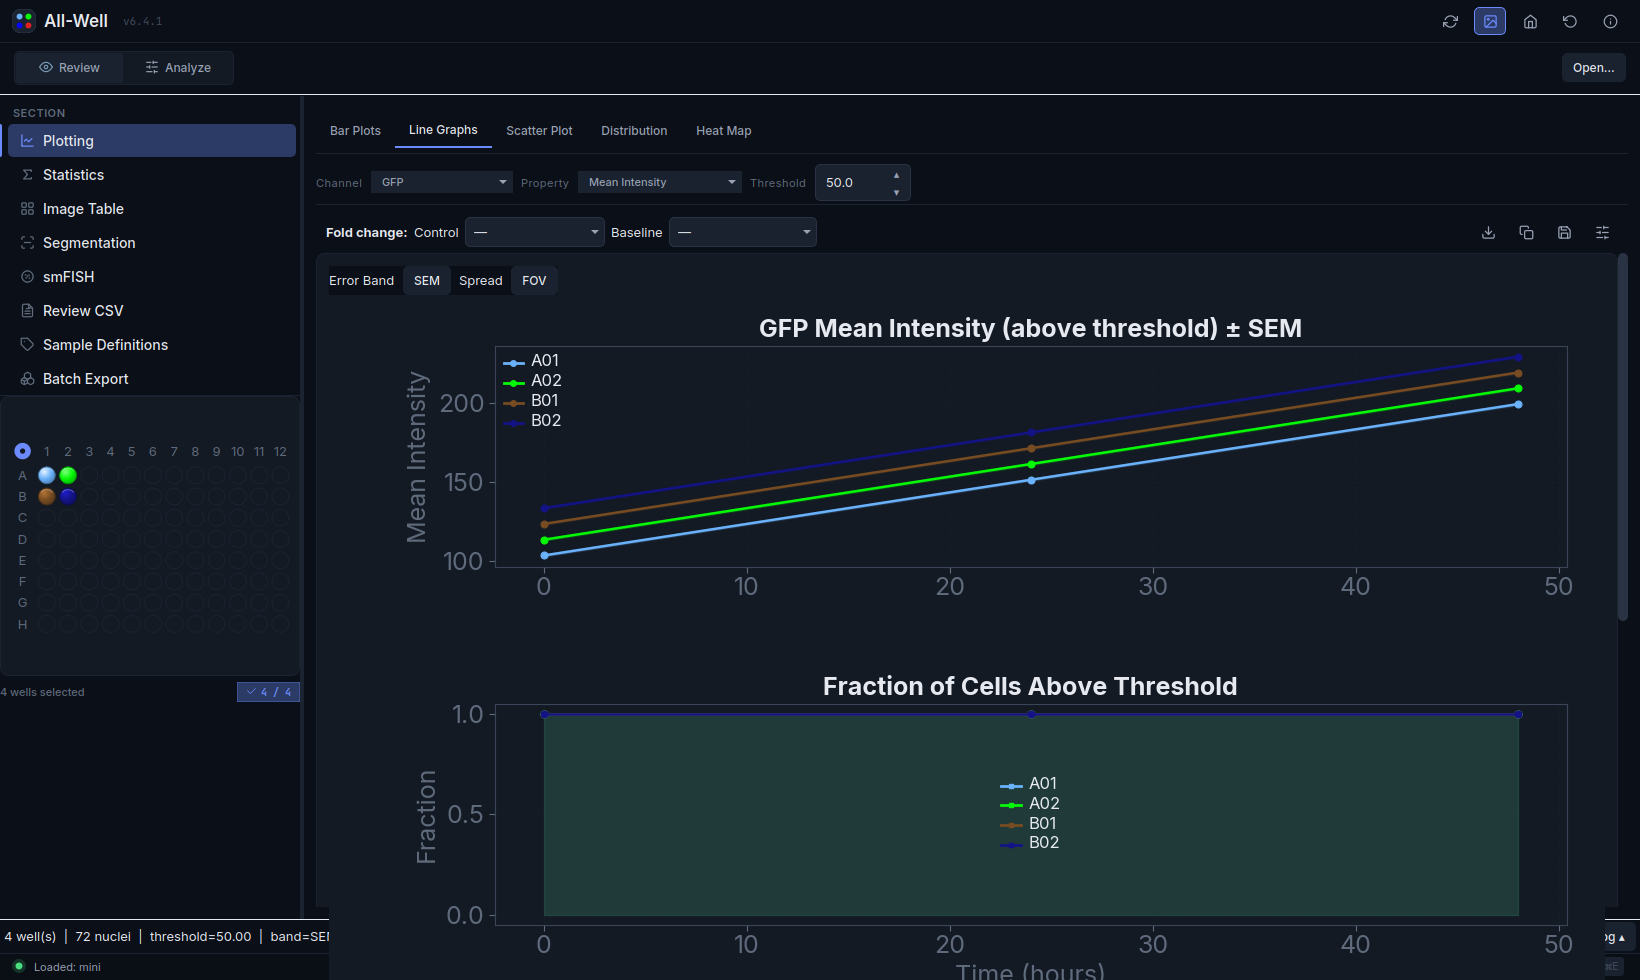
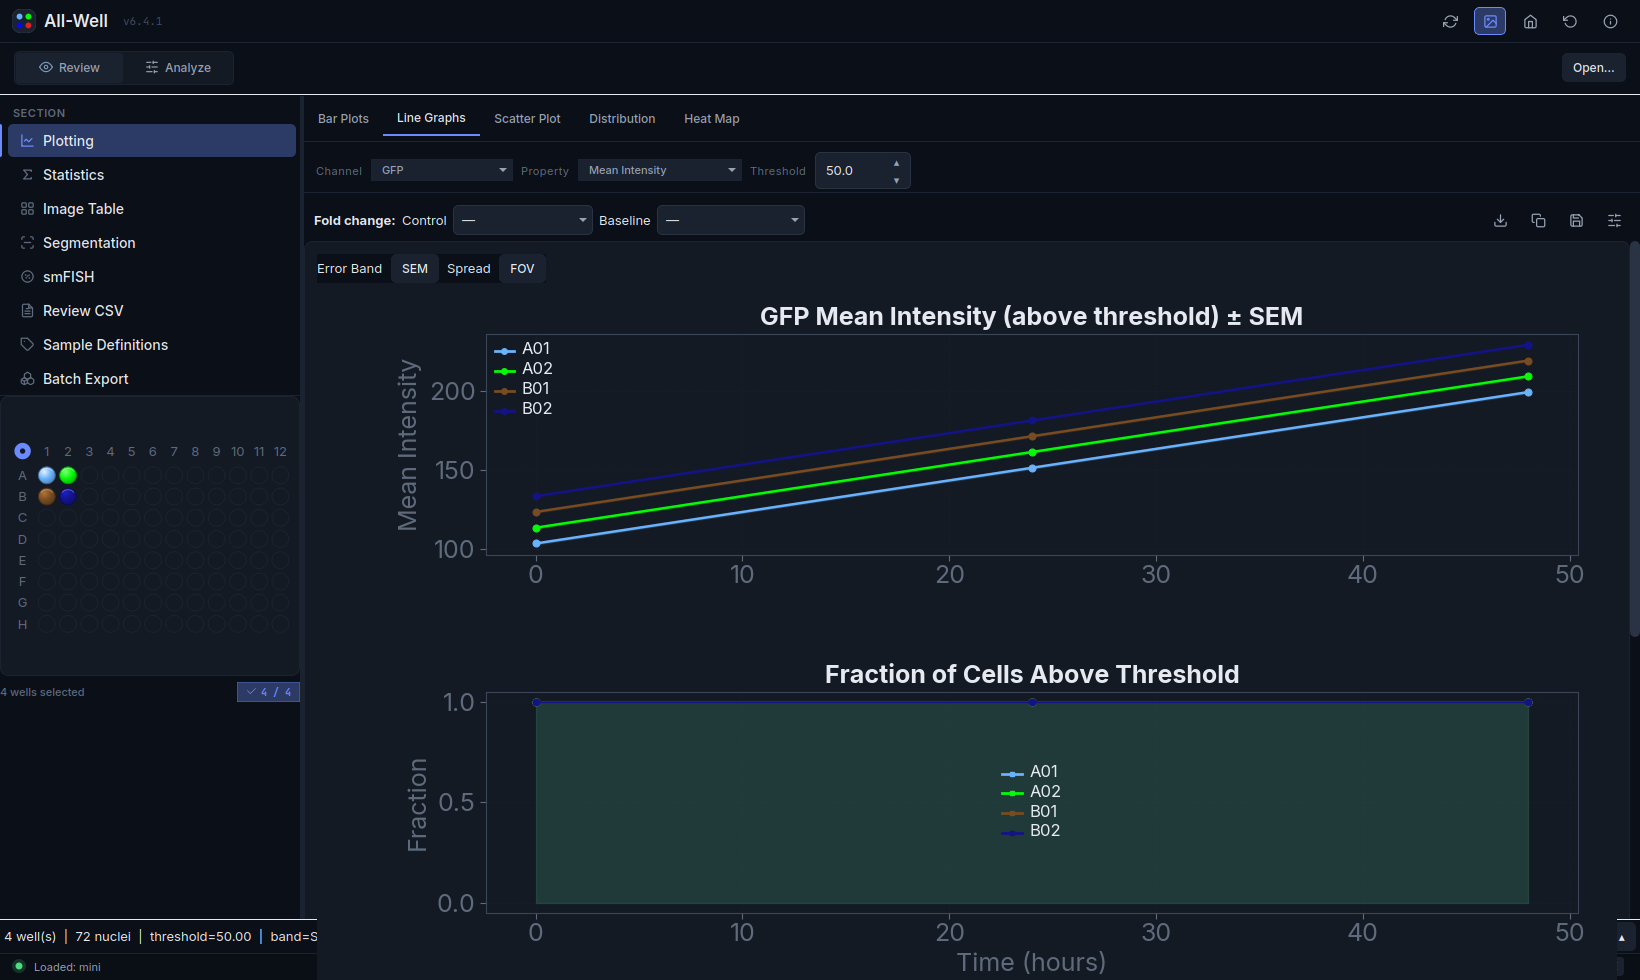
Plotting: align sub-tab bar + content to the shared 12px inset
The previous change inset the whole plotting_container 12px, which pushed the
sub-tab bar in by 12 on top of the QTabBar's own ~12px offset — so its tabs sat
at ~24px while every other tab's content was at 12px. Restore the container to
full-width (so the ctxbar/action-row bars span the pane like the Segmentation /
Sample-Definitions sub-tab bars) and inset the action-row content + plot frames
12px instead. Every Review tab's first element now lands on the same 12px line.

diff --git a/well_viewer/core/centre_view.py b/well_viewer/core/centre_view.py
@@ -149,7 +149,7 @@ def build_centre(app, parent: QWidget) -> None:
     # container and the five sub-tab frames so builder closures (and the
     # drain) can reference them before the nested QTabWidget exists.
     plotting_container = QWidget(app._notebook)
-    QVBoxLayout(plotting_container).setContentsMargins(12, 12, 12, 12)
+    QVBoxLayout(plotting_container).setContentsMargins(0, 0, 0, 0)
 
     _PLOT_SUBTABS = [
         "Bar Plots", "Line Graphs", "Scatter Plot", "Distribution", "Heat Map",
@@ -170,7 +170,7 @@ def build_centre(app, parent: QWidget) -> None:
     tab_frames: Dict[str, QWidget] = {}
     for _t in _PLOT_SUBTABS:
         _f = QWidget()
-        QVBoxLayout(_f).setContentsMargins(0, 0, 0, 0)
+        QVBoxLayout(_f).setContentsMargins(12, 0, 12, 12)
         tab_frames[_t] = _f
 
     # Group definitions: ordered list of (title, builder, eager_flag).
@@ -264,7 +264,7 @@ def build_centre(app, parent: QWidget) -> None:
             f"border-bottom: 1px solid {_C.border_subtle}; }}"
         )
         arl = QHBoxLayout(action_row)
-        arl.setContentsMargins(0, 4, 0, 4)
+        arl.setContentsMargins(12, 4, 12, 4)
         arl.setSpacing(_S.sm)
 
         # Phase 11b (A4): the channel selector is now a single global combo
